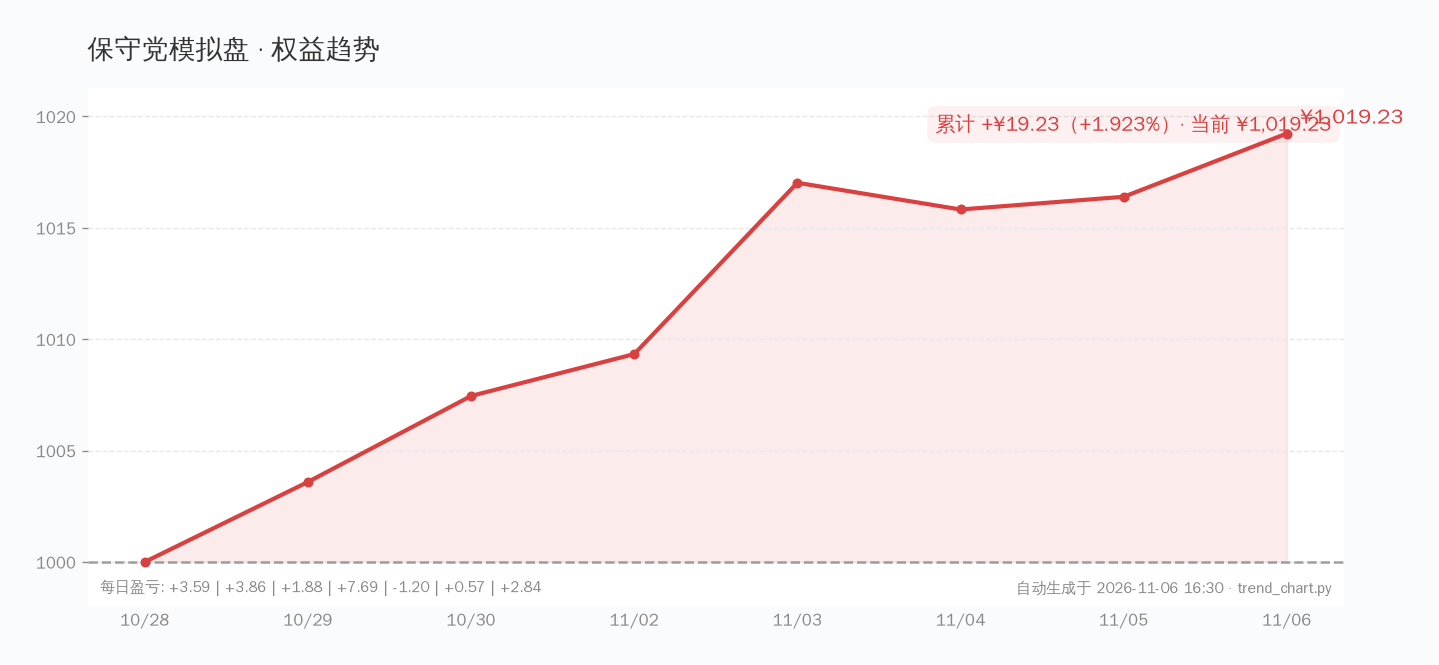
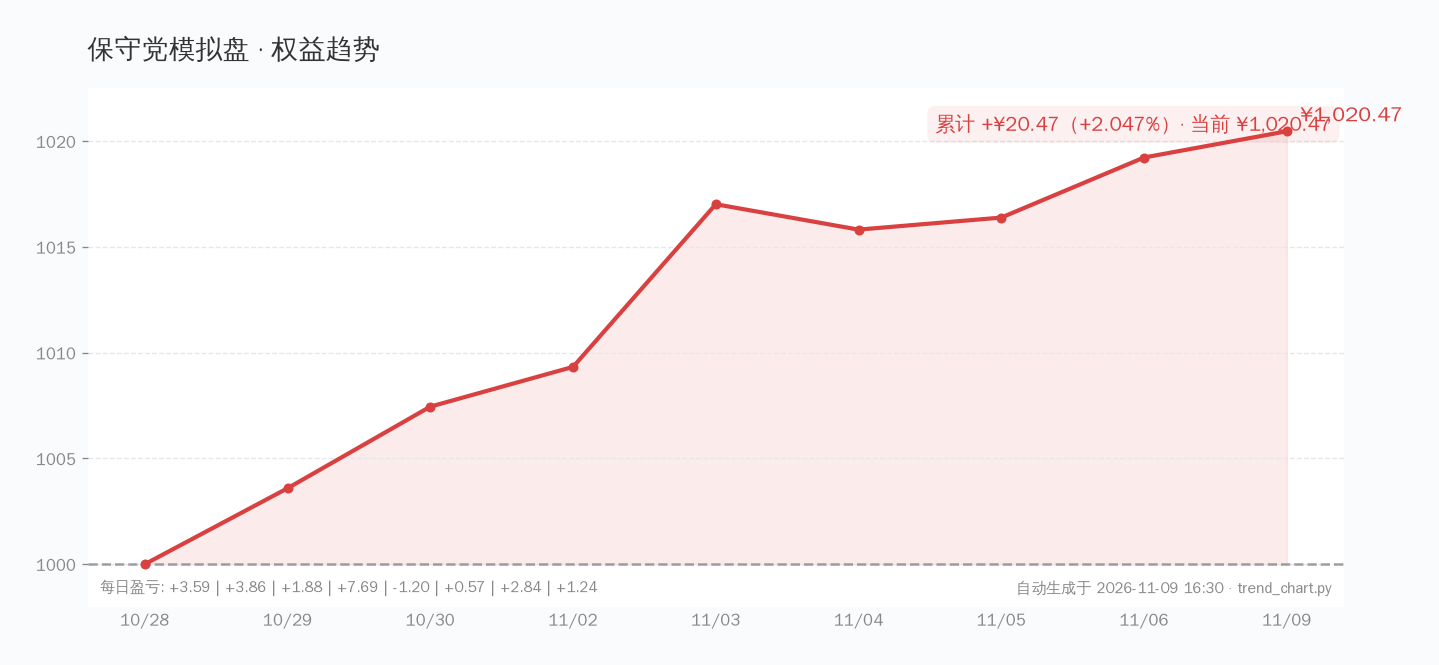
sim: trend chart update 2026-11-09 (equity ¥1,020.47)

diff --git a/sim/journal.md b/sim/journal.md
@@ -79,3 +79,11 @@
 - 现金 ¥273.85
 - 📝 自动收盘估值（看板 cron）
 
+## 2026-11-09 收盘
+
+- 总权益 **¥1020.47**（当日 +0.12% / 累计 +2.047%）
+- 红利低波100ETF景顺 1.473 (+0.00%)
+- 黄金ETF华安 8.375 (+1.48%)
+- 现金 ¥273.87
+- 📝 自动收盘估值（看板 cron）
+
